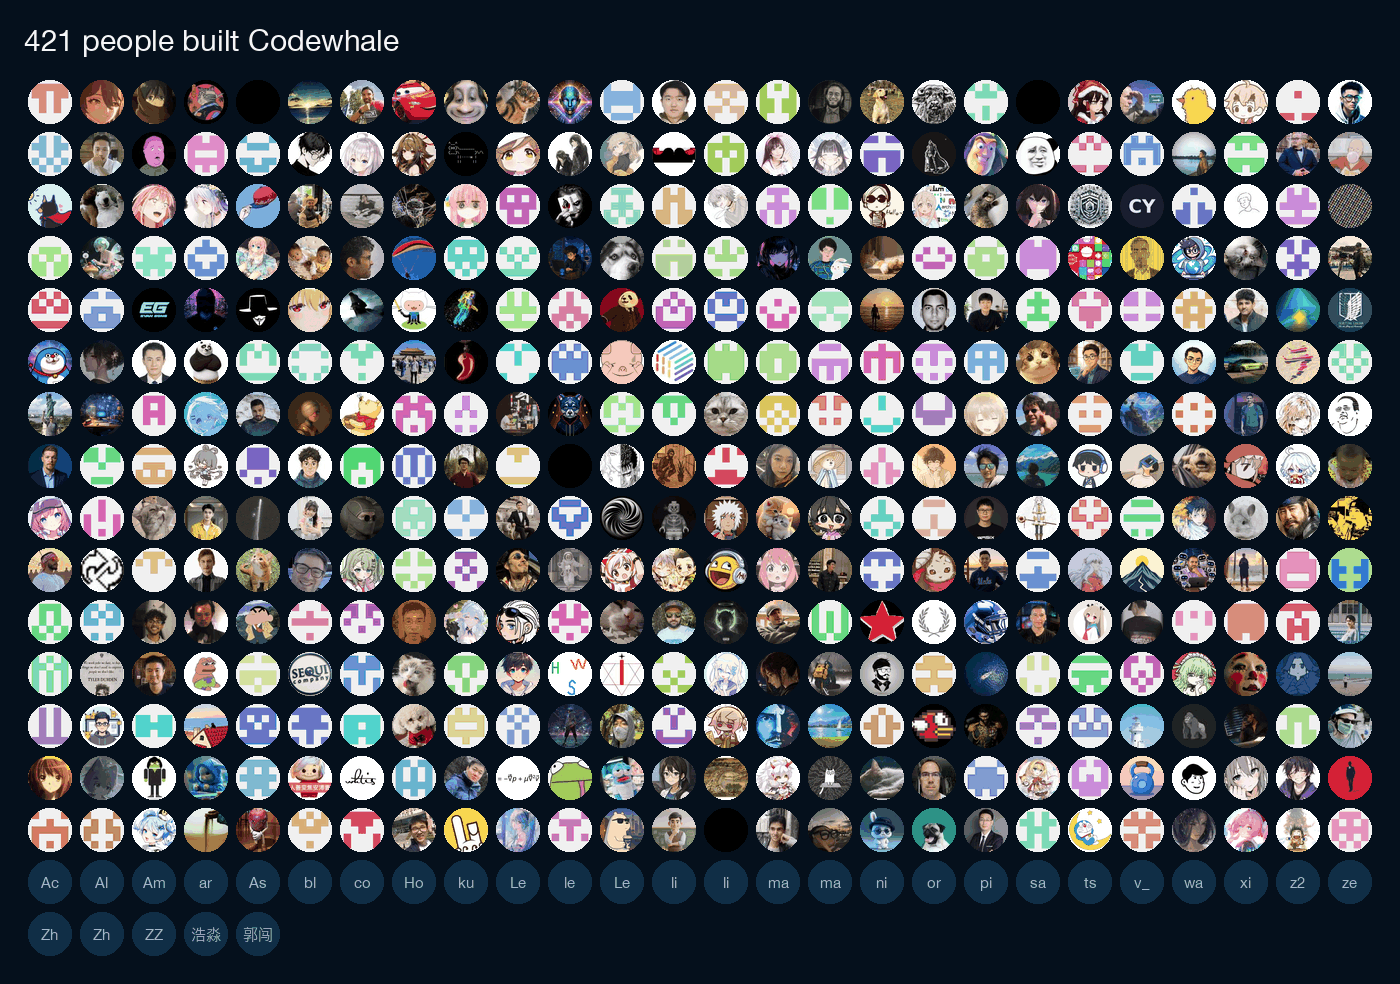
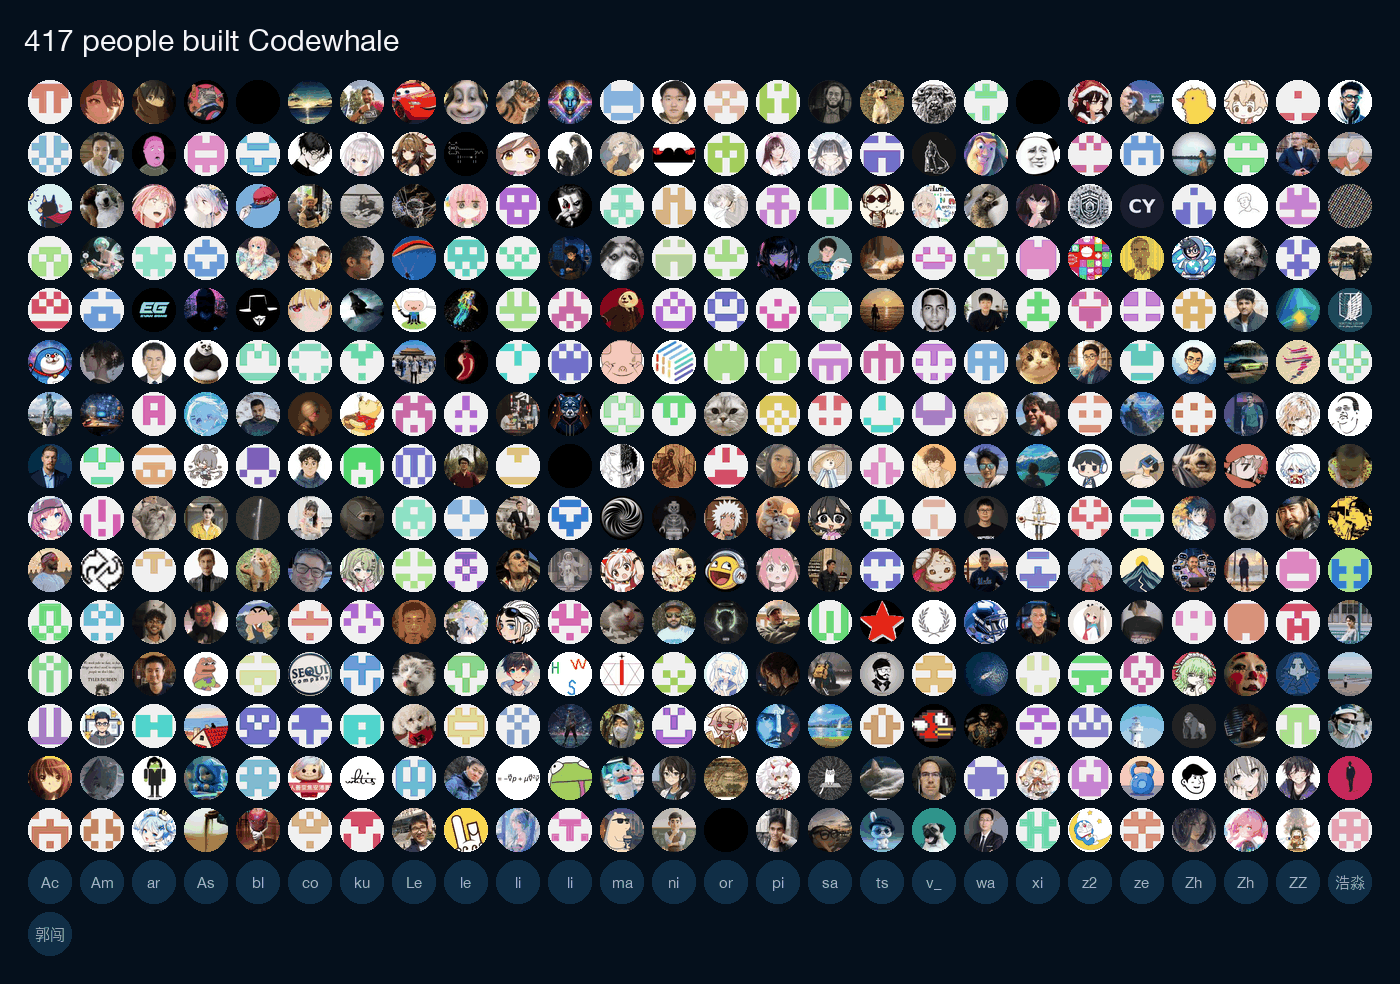
fix(contributors): count four people once, not twice
Four contributors appeared on the wall twice: once under their GitHub
login and once under the display name on commits whose email is not
linked to that account. The commit emails name the account in each
case:

- Horace Liu <im.liuhq@...>: liuhq
- Leo Douglas <douglarek@...>: douglarek
- maple <yekern@...>: yekern
- Alexander Kireev <ak.chatman.media@...>: chatman-media

They are added to unlinked_aliases, mapping each name to its login. The
render step drops an unlinked name that matches a login, so each person
now has one tile. After `scripts/contributor-wall.py refresh` and
`render`: 390 accounts plus 27 unlinked names, 417 people (from 421).

Found by the final review of the Hangzhou deck, whose thank-you slide is
built from this file.

Claude-Session: https://claude.ai/code/session_01NBKbhx19BRbZtvWK8rVKjz

diff --git a/docs/CONTRIBUTORS.md b/docs/CONTRIBUTORS.md
@@ -14,13 +14,13 @@ and [CHANGELOG.md](../CHANGELOG.md).
 <!-- contributor-wall:start -->
 ## Everyone
 
-[![421 people built Codewhale](assets/contributors.png)](#everyone)
+[![417 people built Codewhale](assets/contributors.png)](#everyone)
 
-421 people have code, co-authored commits, carried-forward pull requests or credited reports in Codewhale. GitHub's contributor list shows only commit authors whose email is linked to their account, so it counts 203 of them. If your commits are missing there, add your commit email to your GitHub account and they will link.
+417 people have code, co-authored commits, carried-forward pull requests or credited reports in Codewhale. GitHub's contributor list shows only commit authors whose email is linked to their account, so it counts 203 of them. If your commits are missing there, add your commit email to your GitHub account and they will link.
 
 [0gl20shk0sbt36](https://github.com/0gl20shk0sbt36) · [1Git2Clone](https://github.com/1Git2Clone) · [20bytes](https://github.com/20bytes) · [47Cid](https://github.com/47Cid) · [7jrxt42BxFZo4iAnN4CX](https://github.com/7jrxt42BxFZo4iAnN4CX) · [A-Corner](https://github.com/A-Corner) · [aboimpinto](https://github.com/aboimpinto) · [adity982](https://github.com/adity982) · [AdityaVG13](https://github.com/AdityaVG13) · [AGSaturn](https://github.com/AGSaturn) · [ai-dengwsh](https://github.com/ai-dengwsh) · [aiapienthusiast](https://github.com/aiapienthusiast) · [Aitensa](https://github.com/Aitensa) · [AiurArtanis](https://github.com/AiurArtanis) · [alitvak69](https://github.com/alitvak69) · [all-lopezg](https://github.com/all-lopezg) · [alvin1](https://github.com/alvin1) · [amuthantamil](https://github.com/amuthantamil) · [AnaheimEX](https://github.com/AnaheimEX) · [Andrea-Bruno](https://github.com/Andrea-Bruno) · [Angel-Hair](https://github.com/Angel-Hair) · [angus-guo](https://github.com/angus-guo) · [angziii](https://github.com/angziii) · [AnonymousUser443](https://github.com/AnonymousUser443) · [antarikshraya](https://github.com/antarikshraya) · [Anyexyz](https://github.com/Anyexyz) · [Apeiron0w0](https://github.com/Apeiron0w0) · [aqilaziz](https://github.com/aqilaziz) · [AresNing](https://github.com/AresNing) · [ArronAI007](https://github.com/ArronAI007) · [Artenx](https://github.com/Artenx) · [asdfg314284230](https://github.com/asdfg314284230) · [Asteria1028](https://github.com/Asteria1028) · [asto18089](https://github.com/asto18089) · [atmosuwiryo](https://github.com/atmosuwiryo) · [axobase001](https://github.com/axobase001) · [aznikline](https://github.com/aznikline) · [baendlorel](https://github.com/baendlorel) · [banqii](https://github.com/banqii) · [Beltran12138](https://github.com/Beltran12138) · [bevis-wong](https://github.com/bevis-wong) · [BH8GCJ](https://github.com/BH8GCJ) · [BigBenLabs](https://github.com/BigBenLabs) · [Biilow](https://github.com/Biilow) · [bistack](https://github.com/bistack) · [BrathonBai](https://github.com/BrathonBai) · [bruce6135](https://github.com/bruce6135) · [BryonGo](https://github.com/BryonGo) · [buiducnhat](https://github.com/buiducnhat) · [buko](https://github.com/buko) · [BX166](https://github.com/BX166) · [c020627](https://github.com/c020627) · [cacdcaecawae](https://github.com/cacdcaecawae) · [caeserchen](https://github.com/caeserchen) · [caiyilian](https://github.com/caiyilian) · [CCChisato](https://github.com/CCChisato) · [ccomma](https://github.com/ccomma) · [cenab](https://github.com/cenab) · [ChaceLyee2101](https://github.com/ChaceLyee2101) · [chatman-media](https://github.com/chatman-media) · [chennest](https://github.com/chennest) · [chinaqy110](https://github.com/chinaqy110) · [chnjames](https://github.com/chnjames) · [chuntseevolving](https://github.com/chuntseevolving) · [ci4ic4](https://github.com/ci4ic4) · [cian-lien](https://github.com/cian-lien) · [cmdcorp6534](https://github.com/cmdcorp6534) · [cmyyy](https://github.com/cmyyy) · [codepgq](https://github.com/codepgq) · [Colorful-glassblock](https://github.com/Colorful-glassblock) · [ComeFromTheMars](https://github.com/ComeFromTheMars) · [CrepuscularIRIS](https://github.com/CrepuscularIRIS) · [ct-jaryn](https://github.com/ct-jaryn) · [ctxyao](https://github.com/ctxyao) · [cy2311](https://github.com/cy2311) · [cyq1017](https://github.com/cyq1017) · [czf0718](https://github.com/czf0718) · [dajiaohuang](https://github.com/dajiaohuang) · [DarrellThomas](https://github.com/DarrellThomas) · [demian-welt](https://github.com/demian-welt) · [dfwqdyl-ui](https://github.com/dfwqdyl-ui) · [DI-HUO-MING-YI](https://github.com/DI-HUO-MING-YI) · [DieMoe233](https://github.com/DieMoe233) · [DingYong4223](https://github.com/DingYong4223) · [djairjr](https://github.com/djairjr) · [dmitri-0](https://github.com/dmitri-0) · [dmt4](https://github.com/dmt4) · [donglovejava](https://github.com/donglovejava) · [douglarek](https://github.com/douglarek) · [Dr3259](https://github.com/Dr3259) · [DracheTek](https://github.com/DracheTek) · [drpars](https://github.com/drpars) · [dst1213](https://github.com/dst1213) · [duanchao-lab](https://github.com/duanchao-lab) · [Duducoco](https://github.com/Duducoco) · [dumbjack](https://github.com/dumbjack) · [dxfq](https://github.com/dxfq) · [dzyuan](https://github.com/dzyuan) · [e792a8](https://github.com/e792a8) · [Edouard-Legoupil](https://github.com/Edouard-Legoupil) · [elowen53](https://github.com/elowen53) · [eltociear](https://github.com/eltociear) · [EmiyaKiritsugu3](https://github.com/EmiyaKiritsugu3) · [encyc](https://github.com/encyc) · [eng2007](https://github.com/eng2007) · [eugenicum](https://github.com/eugenicum) · [EvanProgramming](https://github.com/EvanProgramming) · [F1LT3R](https://github.com/F1LT3R) · [Final527](https://github.com/Final527) · [findshan](https://github.com/findshan) · [Fire-dtx](https://github.com/Fire-dtx) · [fleitz](https://github.com/fleitz) · [FluxForgeLab](https://github.com/FluxForgeLab) · [formp3](https://github.com/formp3) · [freedomlovesfrank](https://github.com/freedomlovesfrank) · [fuleinist](https://github.com/fuleinist) · [Gabriel-Degret](https://github.com/Gabriel-Degret) · [gaord](https://github.com/gaord) · [gaslebinh-glitch](https://github.com/gaslebinh-glitch) · [Geallier](https://github.com/Geallier) · [gerryqi](https://github.com/gerryqi) · [giancarlocp](https://github.com/giancarlocp) · [Giggitycountless](https://github.com/Giggitycountless) · [giovanni-paolilla](https://github.com/giovanni-paolilla) · [GK012](https://github.com/GK012) · [goodvecn-dev](https://github.com/goodvecn-dev) · [googio](https://github.com/googio) · [goransh-walia](https://github.com/goransh-walia) · [gordonlu](https://github.com/gordonlu) · [greyfreedom](https://github.com/greyfreedom) · [GTC2080](https://github.com/GTC2080) · [Guan0923](https://github.com/Guan0923) · [h3c-hexin](https://github.com/h3c-hexin) · [hardy922](https://github.com/hardy922) · [harryvgiunta](https://github.com/harryvgiunta) · [harryvizcaino-oss](https://github.com/harryvizcaino-oss) · [harvey2011888](https://github.com/harvey2011888) · [hatakes](https://github.com/hatakes) · [hejia-v](https://github.com/hejia-v) · [heloanc](https://github.com/heloanc) · [henrikdukefoss](https://github.com/henrikdukefoss) · [hhhaiai](https://github.com/hhhaiai) · [hmr-BH](https://github.com/hmr-BH) · [hoclaptrinh33](https://github.com/hoclaptrinh33) · [hodeswildsmith455-boop](https://github.com/hodeswildsmith455-boop) · [hongchen1993](https://github.com/hongchen1993) · [hongqitai](https://github.com/hongqitai) · [hsdbeebou](https://github.com/hsdbeebou) · [huangxianzhan](https://github.com/huangxianzhan) · [hufanexplore](https://github.com/hufanexplore) · [HUQIANTAO](https://github.com/HUQIANTAO) · [hxfhd](https://github.com/hxfhd) · [hxy91819](https://github.com/hxy91819) · [idling11](https://github.com/idling11) · [IIzzaya](https://github.com/IIzzaya) · [imkingjh999](https://github.com/imkingjh999) · [Implementist](https://github.com/Implementist) · [Inference1](https://github.com/Inference1) · [ivysrono](https://github.com/ivysrono) · [J3y0r](https://github.com/J3y0r) · [JafarAkhondali](https://github.com/JafarAkhondali) · [JasonOA888](https://github.com/JasonOA888) · [jayanthvee](https://github.com/jayanthvee) · [JayBeest](https://github.com/JayBeest) · [jazzi](https://github.com/jazzi) · [Jefsky](https://github.com/Jefsky) · [jeoor](https://github.com/jeoor) · [jghwwnq](https://github.com/jghwwnq) · [Jianfengwu2024](https://github.com/Jianfengwu2024) · [JiarenWang](https://github.com/JiarenWang) · [jieshu666](https://github.com/jieshu666) · [jimmyzhuu](https://github.com/jimmyzhuu) · [jinpengxuan](https://github.com/jinpengxuan) · [JoeKerF](https://github.com/JoeKerF) · [jrcjrcc](https://github.com/jrcjrcc) · [jretz](https://github.com/jretz) · [junskyeed](https://github.com/junskyeed) · [k0tran](https://github.com/k0tran) · [khalid-hungerstation](https://github.com/khalid-hungerstation) · [KhalidAlnujaidi](https://github.com/KhalidAlnujaidi) · [knqiufan](https://github.com/knqiufan) · [kobihikri](https://github.com/kobihikri) · [krisclarkdev](https://github.com/krisclarkdev) · [KUK4](https://github.com/KUK4) · [kunpeng-ai-lab](https://github.com/kunpeng-ai-lab) · [lalala-233](https://github.com/lalala-233) · [laoye2020](https://github.com/laoye2020) · [lawrencewzen](https://github.com/lawrencewzen) · [lbcheng888](https://github.com/lbcheng888) · [Lee-take](https://github.com/Lee-take) · [Lellansin](https://github.com/Lellansin) · [leo119](https://github.com/leo119) · [LeoAlex0](https://github.com/LeoAlex0) · [LeoLin990405](https://github.com/LeoLin990405) · [lerugray](https://github.com/lerugray) · [LHqweasd](https://github.com/LHqweasd) · [LI-Jialu](https://github.com/LI-Jialu) · [LIghtJUNction](https://github.com/LIghtJUNction) · [lihuan215](https://github.com/lihuan215) · [LING71671](https://github.com/LING71671) · [linletian](https://github.com/linletian) · [linzhiqin2003](https://github.com/linzhiqin2003) · [lioryx](https://github.com/lioryx) · [LittleBlacky](https://github.com/LittleBlacky) · [Liu-Vince](https://github.com/Liu-Vince) · [liuhq](https://github.com/liuhq) · [lixiasky-back](https://github.com/lixiasky-back) · [lloydzhou](https://github.com/lloydzhou) · [LmeSzinc](https://github.com/LmeSzinc) · [loongmiaow-pixel](https://github.com/loongmiaow-pixel) · [lordwedggie](https://github.com/lordwedggie) · [lpeng1711694086-lang](https://github.com/lpeng1711694086-lang) · [Lstarsky0](https://github.com/Lstarsky0) · [luestr](https://github.com/luestr) · [luismateusvargas](https://github.com/luismateusvargas) · [Lujc0523](https://github.com/Lujc0523) · [M-Maciej](https://github.com/M-Maciej) · [mac119](https://github.com/mac119) · [maker316](https://github.com/maker316) · [malsony](https://github.com/malsony) · [manaskarra](https://github.com/manaskarra) · [mangdehuang](https://github.com/mangdehuang) · [mars-base](https://github.com/mars-base) · [mdrkrg](https://github.com/mdrkrg) · [MeAiRobot](https://github.com/MeAiRobot) · [melody0709](https://github.com/melody0709) · [membphis](https://github.com/membphis) · [MengZ-super](https://github.com/MengZ-super) · [merchloubna70-dot](https://github.com/merchloubna70-dot) · [mky](https://github.com/mky) · [MMMarcinho](https://github.com/MMMarcinho) · [mo-vic](https://github.com/mo-vic) · [moduvoice](https://github.com/moduvoice) · [MoriTang](https://github.com/MoriTang) · [Mr-Moon121](https://github.com/Mr-Moon121) · [mrluanma](https://github.com/mrluanma) · [MuRongMoQing](https://github.com/MuRongMoQing) · [musichen](https://github.com/musichen) · [muyuliyan](https://github.com/muyuliyan) · [mvanhorn](https://github.com/mvanhorn) · [MXAntian](https://github.com/MXAntian) · [NASLXTO](https://github.com/NASLXTO) · [nasus9527](https://github.com/nasus9527) · [nbiish](https://github.com/nbiish) · [Nefelibata1024](https://github.com/Nefelibata1024) · [Neo-millunnium](https://github.com/Neo-millunnium) · [New2Niu](https://github.com/New2Niu) · [nightfallsad](https://github.com/nightfallsad) · [nightt5879](https://github.com/nightt5879) · [noaft](https://github.com/noaft) · [NorethSea](https://github.com/NorethSea) · [nsfoxer](https://github.com/nsfoxer) · [octo-patch](https://github.com/octo-patch) · [OctoBored](https://github.com/OctoBored) · [Oliver-ZPLiu](https://github.com/Oliver-ZPLiu) · [oooyuy92](https://github.com/oooyuy92) · [ousamabenyounes](https://github.com/ousamabenyounes) · [pengyou200902](https://github.com/pengyou200902) · [pingg02](https://github.com/pingg02) · [pizofreude](https://github.com/pizofreude) · [pkeging](https://github.com/pkeging) · [printf033](https://github.com/printf033) · [puneetdixit200](https://github.com/puneetdixit200) · [punkcanyang](https://github.com/punkcanyang) · [PurplePulse](https://github.com/PurplePulse) · [qamranmushtaq-collab](https://github.com/qamranmushtaq-collab) · [qinlinwang](https://github.com/qinlinwang) · [qinxianyuzou](https://github.com/qinxianyuzou) · [qiuYliangM](https://github.com/qiuYliangM) · [qiyan233](https://github.com/qiyan233) · [qiyuanlicn](https://github.com/qiyuanlicn) · [rafacouto](https://github.com/rafacouto) · [rafaelcavalheri](https://github.com/rafaelcavalheri) · [Ram9199](https://github.com/Ram9199) · [raphamorim](https://github.com/raphamorim) · [redjade75723](https://github.com/redjade75723) · [redstar](https://github.com/redstar) · [RefuseOdd](https://github.com/RefuseOdd) · [reidliu41](https://github.com/reidliu41) · [Rene-Kuhm](https://github.com/Rene-Kuhm) · [RepentStar](https://github.com/RepentStar) · [RinZ27](https://github.com/RinZ27) · [RobertEmprechtinger](https://github.com/RobertEmprechtinger) · [rockeverm3m](https://github.com/rockeverm3m) · [rockyzhang](https://github.com/rockyzhang) · [roian6](https://github.com/roian6) · [ronohara](https://github.com/ronohara) · [saieswar237](https://github.com/saieswar237) · [sandofree](https://github.com/sandofree) · [seanthefuturegorilla](https://github.com/seanthefuturegorilla) · [senka9h](https://github.com/senka9h) · [sequico](https://github.com/sequico) · [Serendo](https://github.com/Serendo) · [serephus](https://github.com/serephus) · [SergiuSSoluS](https://github.com/SergiuSSoluS) · [sfdzhmr](https://github.com/sfdzhmr) · [shenjackyuanjie](https://github.com/shenjackyuanjie) · [shentoumengxin](https://github.com/shentoumengxin) · [shenyongqing](https://github.com/shenyongqing) · [shi7ku9](https://github.com/shi7ku9) · [ShikiSuen](https://github.com/ShikiSuen) · [shuxiangxuebiancheng](https://github.com/shuxiangxuebiancheng) · [simuusang](https://github.com/simuusang) · [sky-sun-moon](https://github.com/sky-sun-moon) · [skyzhao1223](https://github.com/skyzhao1223) · [slowly247](https://github.com/slowly247) · [snail-vs](https://github.com/snail-vs) · [sockerch](https://github.com/sockerch) · [SparkofSpike](https://github.com/SparkofSpike) · [springeye](https://github.com/springeye) · [Sskift](https://github.com/Sskift) · [staryxchen](https://github.com/staryxchen) · [Statter](https://github.com/Statter) · [sternelee](https://github.com/sternelee) · [stream2stream](https://github.com/stream2stream) · [sximelon](https://github.com/sximelon) · [T-Phuong-Nguyen](https://github.com/T-Phuong-Nguyen) · [taiwan988](https://github.com/taiwan988) · [taixinguo](https://github.com/taixinguo) · [tdccccc](https://github.com/tdccccc) · [THatch26](https://github.com/THatch26) · [thejayjetson](https://github.com/thejayjetson) · [THINKER-ONLY](https://github.com/THINKER-ONLY) · [tiangangQiu](https://github.com/tiangangQiu) · [tiger-dog](https://github.com/tiger-dog) · [TIMER-succ](https://github.com/TIMER-succ) · [toi500](https://github.com/toi500) · [tuohai666](https://github.com/tuohai666) · [tyouter](https://github.com/tyouter) · [USTHzhanglu](https://github.com/USTHzhanglu) · [VerrPower](https://github.com/VerrPower) · [vFONGv](https://github.com/vFONGv) · [vibecoding-skills](https://github.com/vibecoding-skills) · [victorcheng2333](https://github.com/victorcheng2333) · [VincentCorleone](https://github.com/VincentCorleone) · [Vishnu1837](https://github.com/Vishnu1837) · [w1w218](https://github.com/w1w218) · [Watcher24](https://github.com/Watcher24) · [Water-Run](https://github.com/Water-Run) · [WavesMan](https://github.com/WavesMan) · [wavezhang](https://github.com/wavezhang) · [Wenjunyun123](https://github.com/Wenjunyun123) · [wgeeker](https://github.com/wgeeker) · [whp233](https://github.com/whp233) · [whtis](https://github.com/whtis) · [wjq2026](https://github.com/wjq2026) · [wlon](https://github.com/wlon) · [woyxiang](https://github.com/woyxiang) · [wplll](https://github.com/wplll) · [wucm667](https://github.com/wucm667) · [wuisabel-gif](https://github.com/wuisabel-gif) · [wuwuzhijing](https://github.com/wuwuzhijing) · [wuxixing](https://github.com/wuxixing) · [wywsoor](https://github.com/wywsoor) · [WyxBUPT-22](https://github.com/WyxBUPT-22) · [xavierpestel-ai](https://github.com/xavierpestel-ai) · [xfy6238](https://github.com/xfy6238) · [XhesicaFrost](https://github.com/XhesicaFrost) · [XiaoHuo888-hue](https://github.com/XiaoHuo888-hue) · [xiaoray-blip](https://github.com/xiaoray-blip) · [xiechimon](https://github.com/xiechimon) · [xieshutao](https://github.com/xieshutao) · [xin1104](https://github.com/xin1104) · [xsstomy](https://github.com/xsstomy) · [xuezhaoyu](https://github.com/xuezhaoyu) · [xulongzhe](https://github.com/xulongzhe) · [xyuai](https://github.com/xyuai) · [xyzs996](https://github.com/xyzs996) · [y0sif](https://github.com/y0sif) · [yan-zay](https://github.com/yan-zay) · [yangdaowan](https://github.com/yangdaowan) · [YaYII](https://github.com/YaYII) · [yekern](https://github.com/yekern) · [yetuge](https://github.com/yetuge) · [yiheng-kkk](https://github.com/yiheng-kkk) · [yrk111222](https://github.com/yrk111222) · [yuanchenglu](https://github.com/yuanchenglu) · [YuniqueUnic](https://github.com/YuniqueUnic) · [yusufgurdogan](https://github.com/yusufgurdogan) · [yyyCode](https://github.com/yyyCode) · [zerx-lab](https://github.com/zerx-lab) · [zhangweiii](https://github.com/zhangweiii) · [zhuangbiaowei](https://github.com/zhuangbiaowei) · [ZhulongNT](https://github.com/ZhulongNT) · [zhuowp](https://github.com/zhuowp) · [zhyuzhyu](https://github.com/zhyuzhyu) · [zichen0116](https://github.com/zichen0116) · [zlh124](https://github.com/zlh124) · [zxyasfas](https://github.com/zxyasfas) · [zyxrealhero](https://github.com/zyxrealhero)
 
-Also with us, from commits whose email is not linked to an account: AccMoment · Alexander Kireev · AmosLeeeeeeee · artanis · Assassin-D007 · bluth · codgo · Horace Liu · kurise · LeHaiDang · lei · Leo Douglas · liushiao · liuyang · maple · markchang · ningjingkun · ornn.ban · pinvou3-dev · sanbo · ts25504 · v_wanghuanping01 · wangfeng · xiedongsheng · z27014 · zero · Zhiping · Zhuoran Deng · ZZHAsus · 浩淼 · 郭闯.
+Also with us, from commits whose email is not linked to an account: AccMoment · AmosLeeeeeeee · artanis · Assassin-D007 · bluth · codgo · kurise · LeHaiDang · lei · liushiao · liuyang · markchang · ningjingkun · ornn.ban · pinvou3-dev · sanbo · ts25504 · v_wanghuanping01 · wangfeng · xiedongsheng · z27014 · zero · Zhiping · Zhuoran Deng · ZZHAsus · 浩淼 · 郭闯.
 <!-- contributor-wall:end -->
 
 ## Organizational thanks
